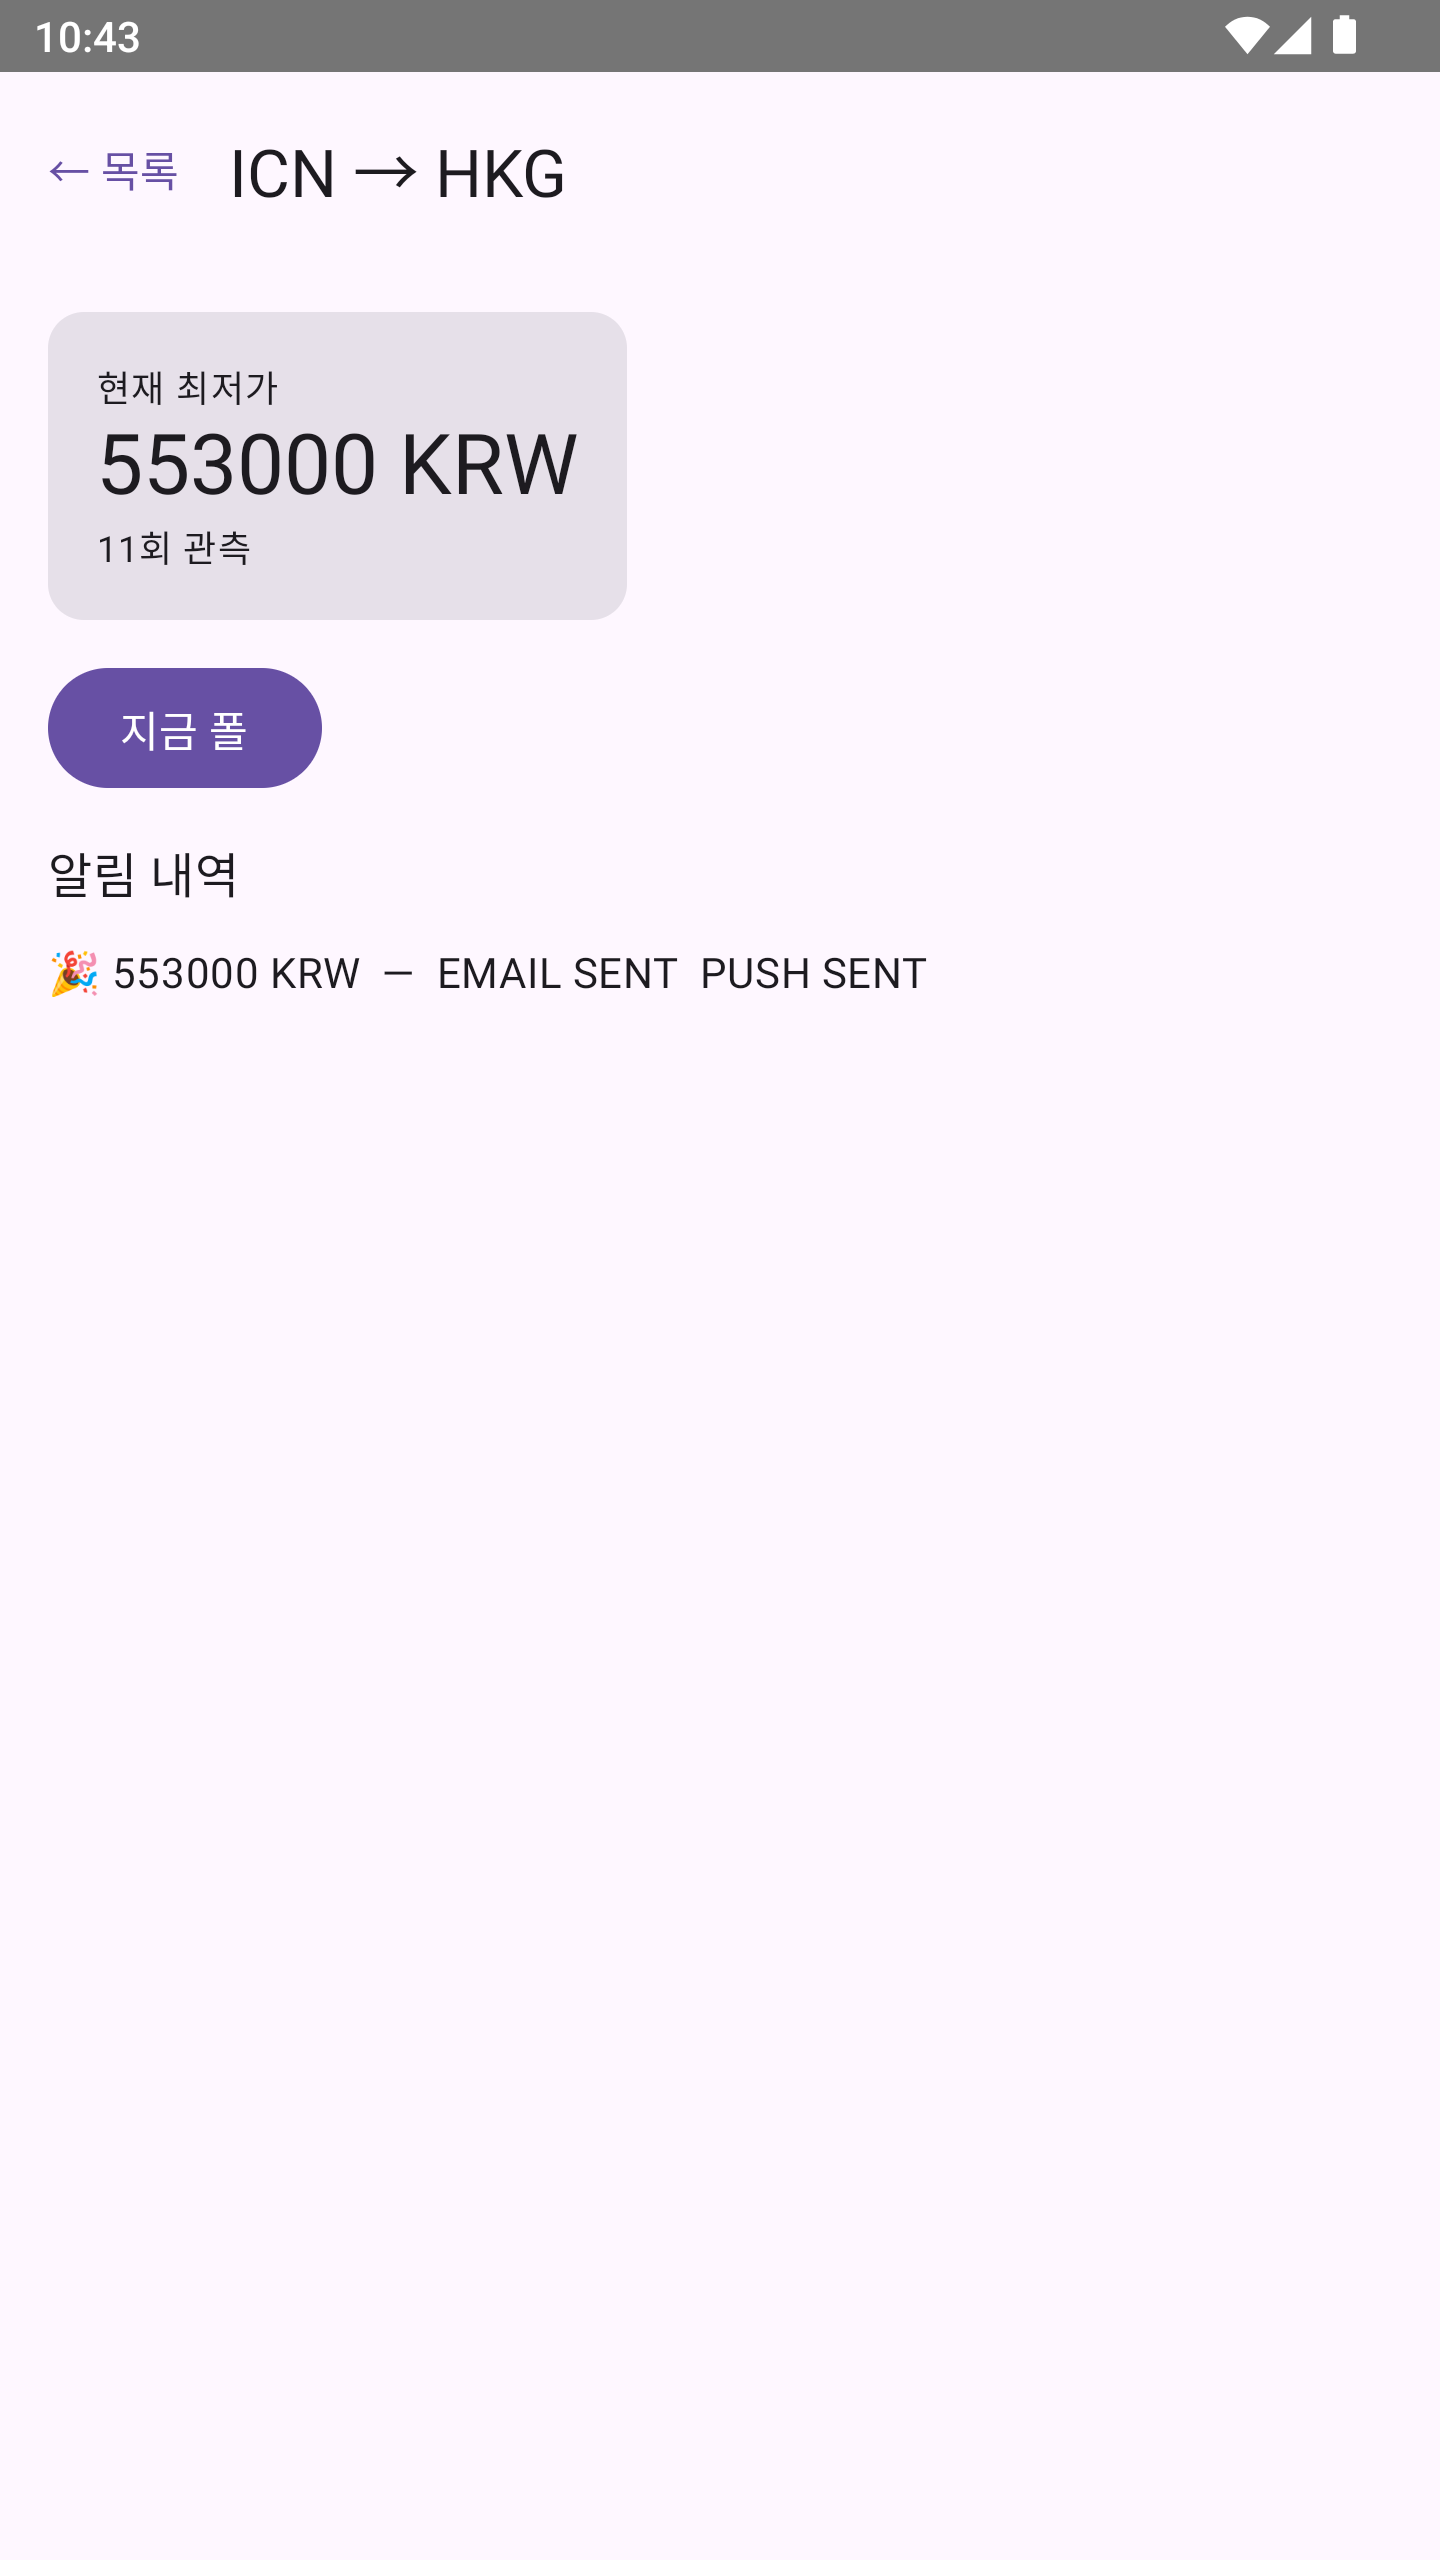
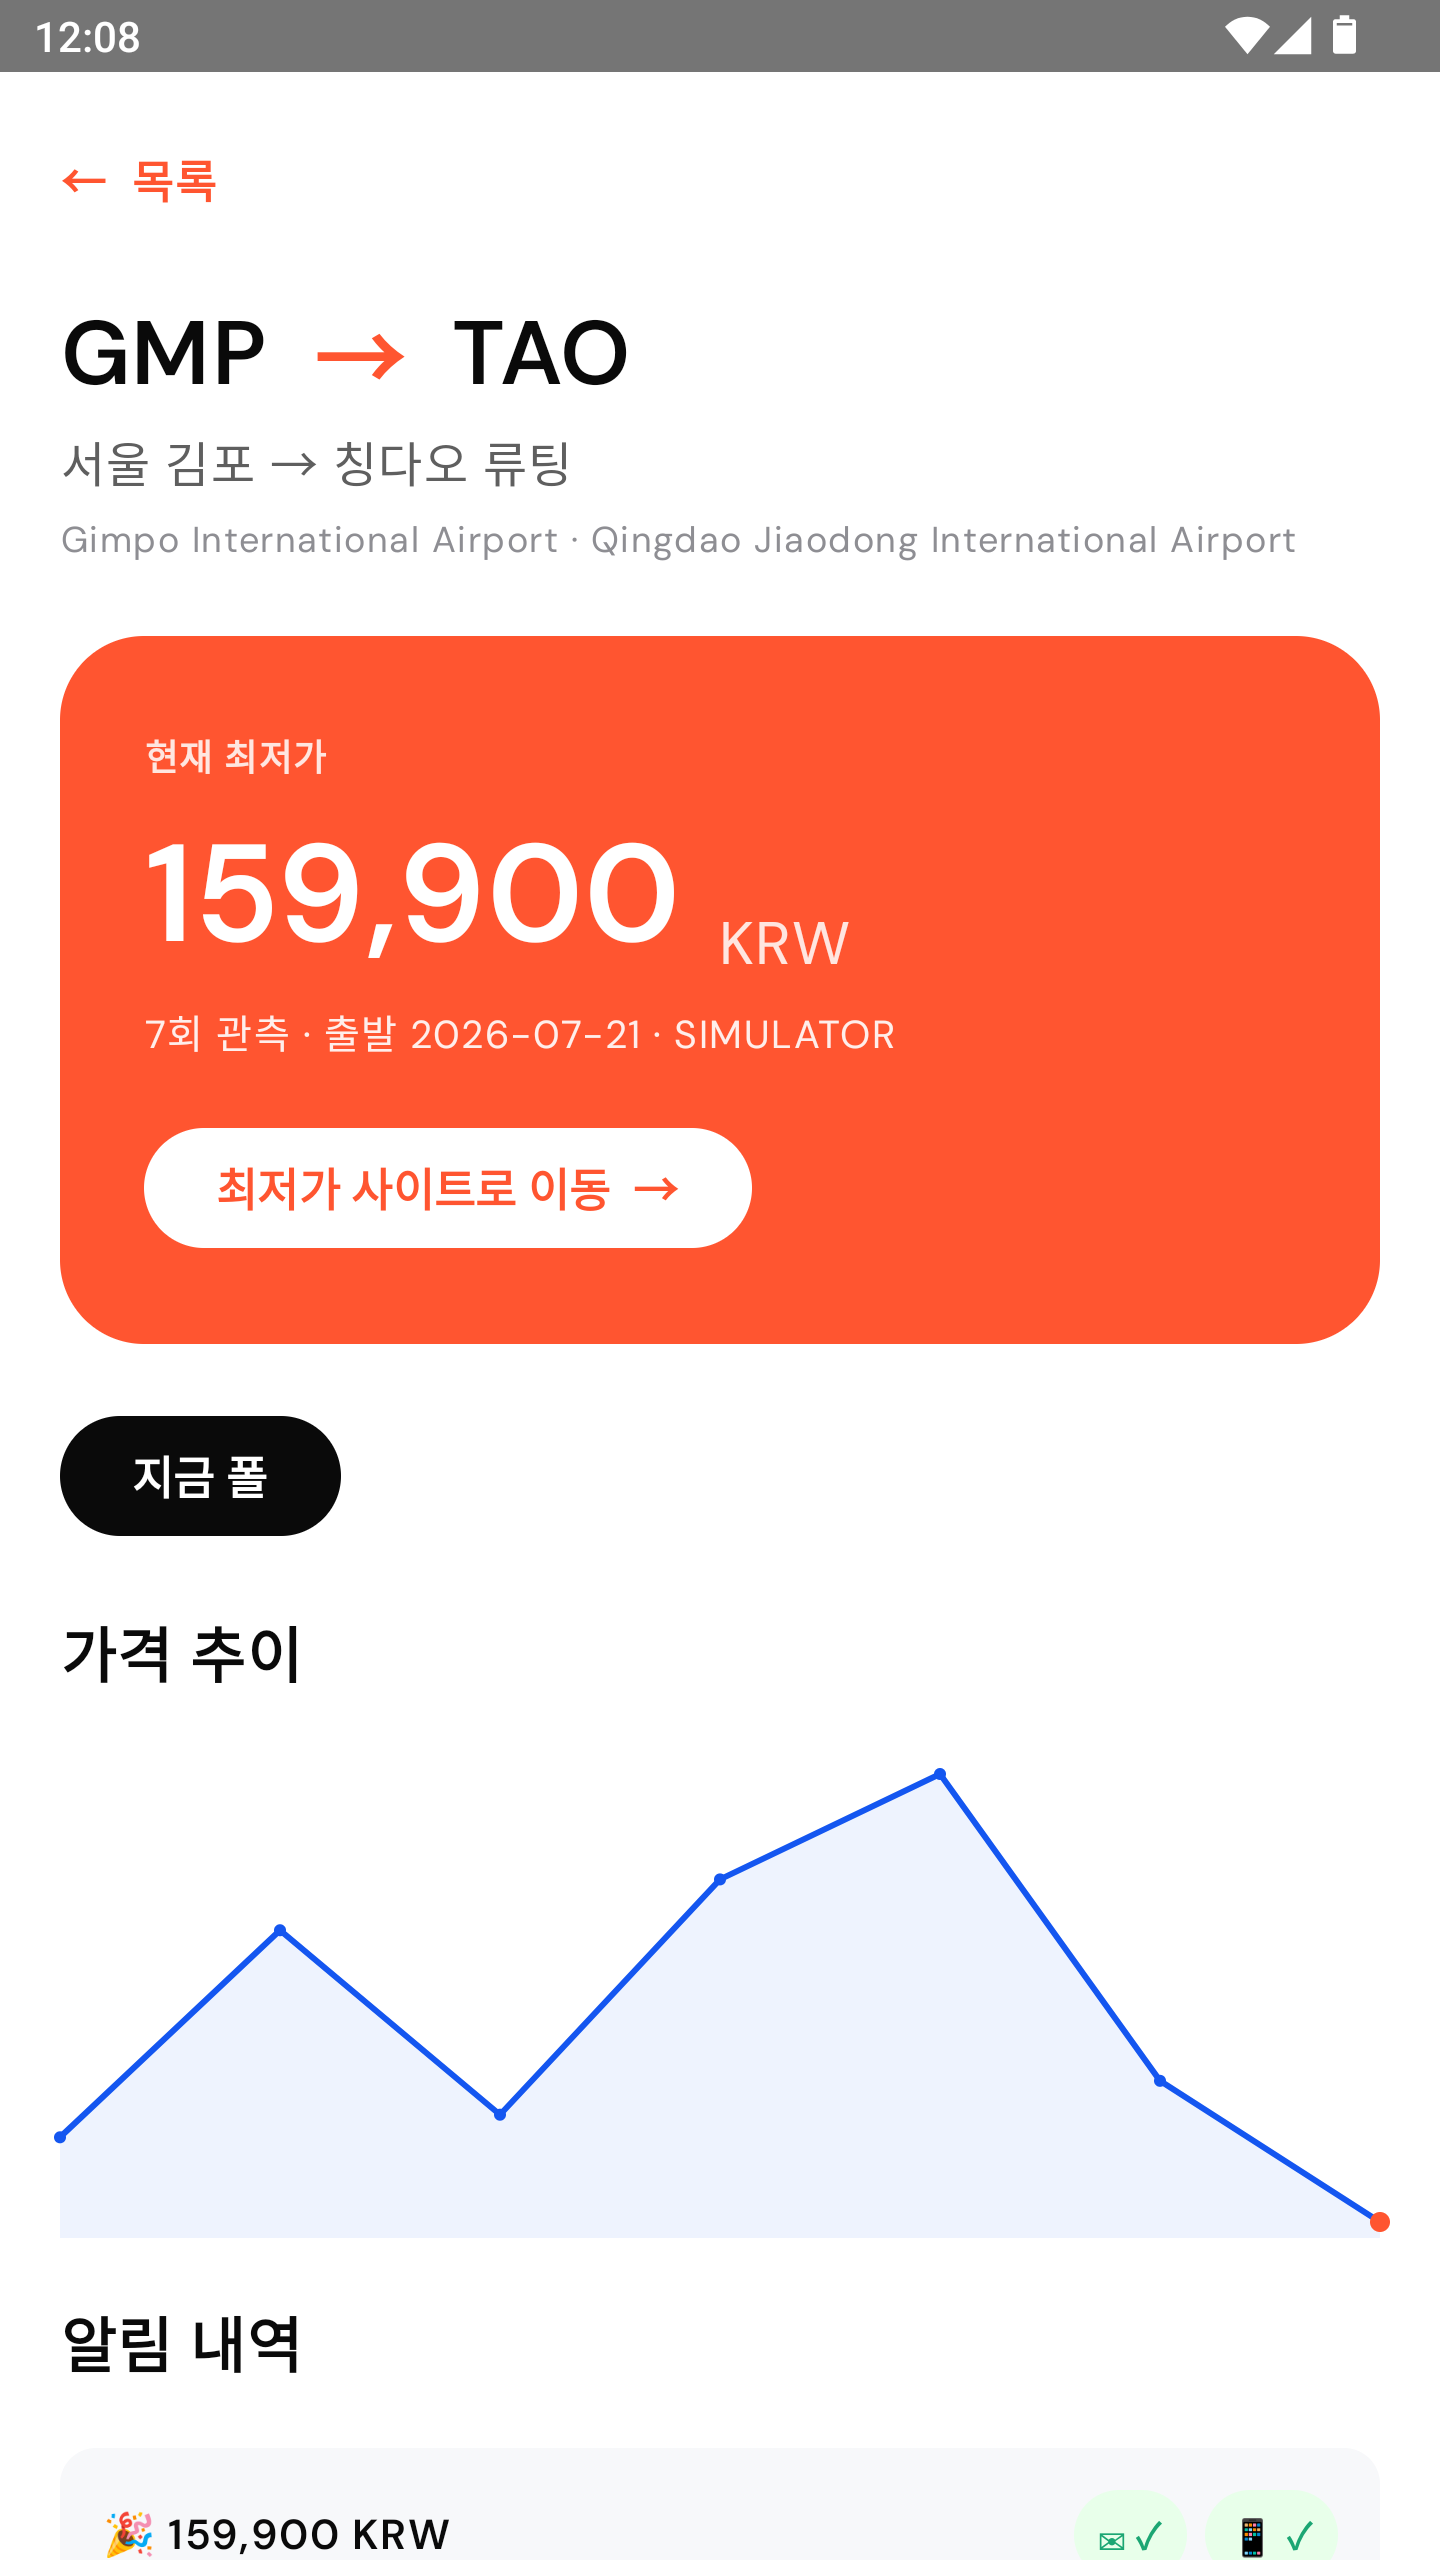
docs(android): vibrant app screenshots (list/detail/chart/heatmap/search/Korean/time) + README section

diff --git a/README.md b/README.md
@@ -19,6 +19,16 @@
 
 > 입력 UX는 스카이스캐너에서 빌려오되 출력은 **워치 → 가격 추적 → 알림 → 최저가 사이트 딥링크**. 디자인 시스템: 스타크 화이트 캔버스 + DM Sans + 블랙 필 CTA + 하나의 비비드 코랄 "현재 최저가" 카드.
 
+### Android 앱 (Kotlin · Jetpack Compose)
+
+웹과 **동일한 기능·디자인**을 네이티브로 구현 — 같은 `/api` 소비, DM Sans · 코랄 "현재 최저가" 카드 · 블랙 필. 라우트는 **IATA + 한국어 + 영문 공항명**으로 표시. (Windows-on-ARM이라 Google 에뮬은 불가 → **MuMu Player**(Hyper-V arm64 Android)에서 실데이터 구동·캡처.)
+
+| 워치 목록 (한글+영문 공항명) | 워치 상세 (코랄 카드·가격 차트) | 날짜별 최저가 히트맵 |
+|:--:|:--:|:--:|
+| ![android-list](docs/demo/android-list.png) | ![android-detail](docs/demo/android-detail.png) | ![android-heatmap](docs/demo/android-detail-2.png) |
+| **검색/생성** (공항·2개월 캘린더) | **한국어 자동완성** (서울 → GMP/ICN) | **시간대·좌석** (프리셋 + 직접 지정) |
+| ![android-search](docs/demo/android-search.png) | ![android-korean](docs/demo/android-search-korean.png) | ![android-time](docs/demo/android-search-2.png) |
+
 ---
 
 ## 문제 (Problem)